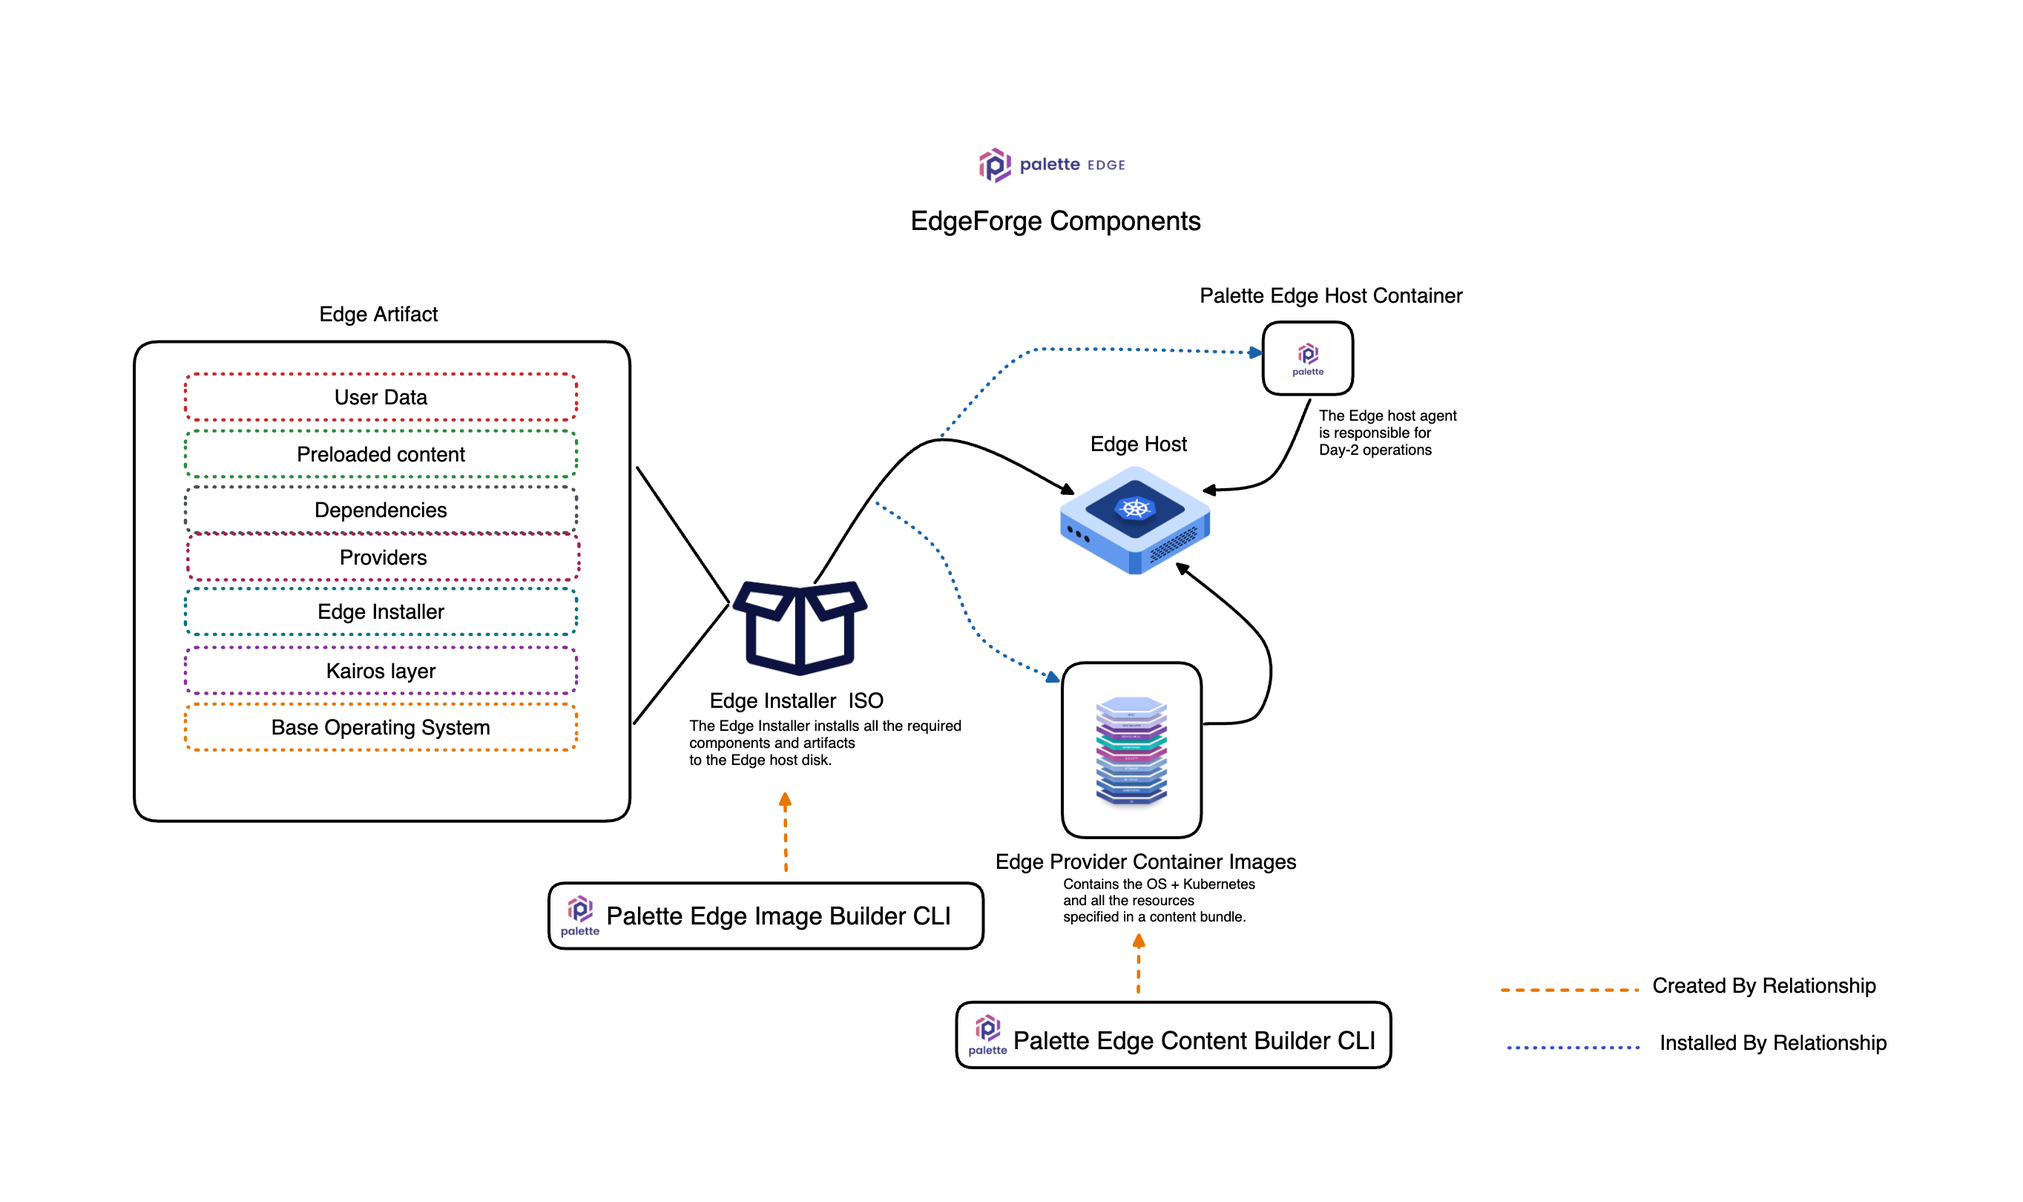
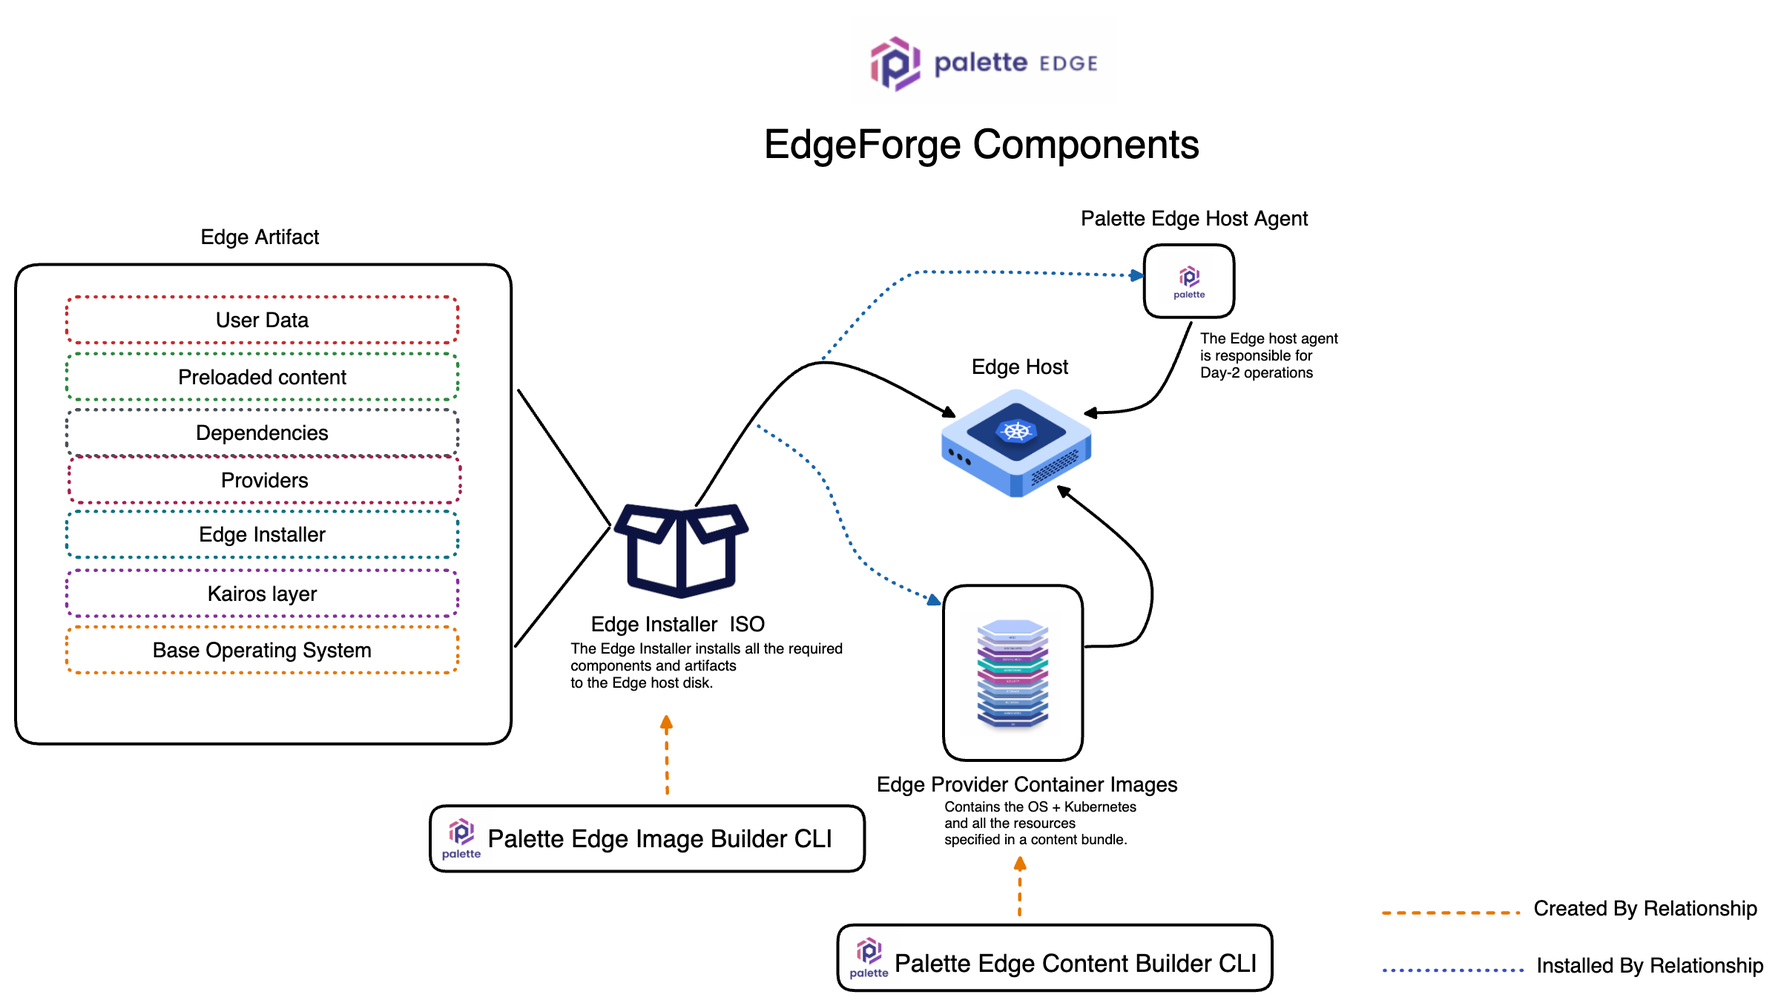
docs: updated Build Images page

diff --git a/content/docs/04-clusters/03-edge/04-edgeforge-workflow/04-build-images.md b/content/docs/04-clusters/03-edge/04-edgeforge-workflow/04-build-images.md
@@ -13,172 +13,190 @@ import PointsOfInterest from 'shared/components/common/PointOfInterest';
 
 # Overview
 
-Palette provides a tool called Palette Edge Installer CLI for building your edge artifacts.
+You can use the Edge Installer CLI to create an Edge artifact. The Edge artifacts will include everything you may have created up to this point.
 
+<br />
+
+* Bring Your Own Operating System (BYOOS)
+
+
+* Content Bundle
+
+
+
+* User Data
+
+
+![A diagram that illustrates the mentioned pieces making up an Edge artifact created by the Edge Installer CLI](/clusters_edge-forge-workflow_build-images_edge-artifact-result.png)
+
+Use the following steps to create an Edge artifact for your Edge host.
 # Prerequisites
 
-- Linux Machine (Physical or VM)
-- Access to a container registry with permissions to push container images
+- Linux Machine (Physical or VM) with an AMD64 architecture.
 
-# Steps
 
-1. Download Palette Edge Installer CLI
+- 12 Gib of storage or more. The size requirements may change depending on the size of the content bundle and image sizes of the selected OS and Kubernetes distribution.
 
-```shell
-VERSION=3.3.0
-wget https://software.spectrocloud.com/stylus/v$VERSION/cli/linux/palette-edge-installer
-chmod +x palette-edge-installer
-```
 
-2. Review options
+- Access to a container registry with permission to push container images. Review the registry login instructions for your respective registry for guidance on logging in.
 
-Run the 'show' command to view the list of options for OS flavors, OS version, K8s flavors, K8s Versions, Spectro Agent Version and Kairos version.
 
-```
-./spectro-cli-linux-amd64 show
-```
+# Create Image
 
-Sample Output:
+Choose the workflow that fits your needs.
 
-```
-┌────────────────────────────────────────────────────────────────────────┐
-| OS Flavor     | Description        | Base Image URI                    |
-| opensuse-leap | Opensuse Leap 15.4 | quay.io/kairos/core-opensuse-leap |
-| ubuntu-20     | Ubuntu 20.4 LTS    | quay.io/kairos/core-ubuntu-20-lts |
-| ubuntu-22     | Ubuntu 22.4 LTS    | quay.io/kairos/core-ubuntu-22-lts |
-└────────────────────────────────────────────────────────────────────────┘
-┌─────────────────────────────────────────────────────────────────────────────────────────────┐
-| K8S Flavor | Description        | Supported Versions                                        |
-| rke2       | Rancher RK2        | 1.25.3-rke2r1,1.24.7-rke2r1,1.23.13-rke2r1,1.22.15-rke2r1 |
-| k3s        | Rancher K3s        | 1.25.3-k3s1,1.24.6-k3s1,1.23.12-k3s1,1.22.15-k3s1         |
-| kubeadm    | Kubernetes kubeadm | 1.25.3,1.24.6,1.23.12,1.22.15                             |
-└─────────────────────────────────────────────────────────────────────────────────────────────┘
-┌────────────────────────────────────────┐
-| Component             | Version        |
-| Spectro Agent Version | v0.0.0-2b13491 |
-| Kairos Version        | v1.5.0         |
-└────────────────────────────────────────┘
-```
+<br />
 
-Notes:
 
-- The K8s flavor and K8s versions you choose, need to be from the list displayed. Palette will continuiously release newer versions of K8s as part of its releases.
-- If you choose to use your own OS, you will need to build a Kairos image from your OS as described in 'Build Your Own Kairos Image' section.
-- Typically, you will not change the Spectro Agent Version and Kairos Version.
+1. Download Palette Edge Installer CLI and assign the executable bit.
+   
+   <br />
 
-2. Generate Scaffold
+    ```shell
+    VERSION=3.3.0
+    wget https://software.spectrocloud.com/stylus/v$VERSION/cli/linux/palette-edge-installer
+    chmod +x palette-edge-installer
+    ```
 
-Generate a scaffold for bulding your images by providing your choice of OS and K8s flavor, output folder for build file, your container registry location and the location of your user data file.
+2. Issue the `show` command to review the list of options for Operating System (OS) distribution and versions, Kubernetes distributions and versions, the Spectro Agent Version, and Kairos version.
 
-The "generate" command generates files and directories based on os and k8s flavors or even custom base images.
+    <br />
 
-Basic Options:
+    ```shell
+    ./palette-edge-installer show
+    ```
 
---os-flavor: OS Flavor
---k8s-flavor: K8s Flavor
---output: Directory for generating build files
---push-image-repository: Repository for generated container images
---content-path: Optional location of content bundle if preloading content
---cache-provider-images: Additional flag to preload generated provider images into the installer ISO
+    ![CLI example output from the show command](/clusters_edge-forge-workflow_build-images_edge-cli-show.png)
 
-As an example, to create an opensuse + k3s images using upstream kairos opensuse-leap images and to publish to a target repo gcr.io/spectro-testing one could do
+    <br />
 
-```
-edge-cli generate --os-flavor opensuse-leap --k8s-flavor k3s --output opensuse-k3s --push-image-repository gcr.io/spectro-testing --content-path /root/work/playground/content-c59a5a88/spectro-content-c59a5a88.zst --cache-provider-images   
- 
- INFO  Creating directory  opensuse-k3s
- INFO  Created scaffolding directory structure under directory opensuse-k3s with the following parameters
-┌───────────────────────────────────────────────────────────────────────────┐
-| Spectro Agent Version | v0.0.0-d155796                                    |
-| Base Image            | quay.io/kairos/core-opensuse-leap:v1.5.0          |
-| K8S Flavor            | k3s                                               |
-| K8S Versions          | 1.25.2-k3s1,1.24.6-k3s1,1.23.12-k3s1,1.22.15-k3s1 |
-| Push Image Repository | gcr.io/spectro-testing                            |
-| Kairos Version        | v1.5.0                                            |
-└───────────────────────────────────────────────────────────────────────────┘
-To build an installer iso and target docker images for
-various versions supported, run the 'build.sh' in the
-'opensuse-k3s' directory. For any customizations to made to
-all the generated images e.g adding packages, edit the
-'images/Dockerfile' as needed before running
-'build.sh'.Files to be copied to the target images can be
-places under 'overlay/files' and files for the iso only can
-be placed under 'overlay/files-iso
-```
+    The Kubernetes distribution and versions you choose must be available in the list displayed. We will continuously release newer versions of Kubernetes as part of our release cycle. If you decide to use your custom OS, you must build a Kairos image from the OS you used in the [Bring Your Own OS](/clusters/edge/edgeforge-workflow/build-kairos-os) guide. Typically, you will keep the Spectro Agent and Kairos versions the same.
 
-To use a custom base image, such as rocky linux you would run the command as follows:
 
-```
-$> edge-cli generate --base-image-uri quay.io/kairos/core-rockylinux:v1.5.0  --k8s-flavor k3s --output rockylinux-k3s --push-image-repository gcr.io/spectro-testing 
+3. Use the `generate` command to create an image scaffolding by providing your choice of OS and Kubernetes distribution. There are several CLI flags you can specify to the `generate` command. The following flags are the most common.
 
- INFO  Creating directory  rockylinux-k3s
- INFO  Created scaffolding directory structure under directory rockylinux-k3s with the following parameters
-┌───────────────────────────────────────────────────────────────────────────┐
-| Spectro Agent Version | v0.0.0-d155796                                    |
-| Base Image            | quay.io/kairos/core-rockylinux:v1.5.0             |
-| K8S Flavor            | k3s                                               |
-| K8S Versions          | 1.25.2-k3s1,1.24.6-k3s1,1.23.12-k3s1,1.22.15-k3s1 |
-| Push Image Repository | gcr.io/spectro-testing                            |
-└───────────────────────────────────────────────────────────────────────────┘
-To build an installer iso and target docker images for
-various versions supported, run the 'build.sh' in the
-'rockylinux-k3s' directory. For any customizations to made
-to all the generated images e.g adding packages, edit the
-'images/Dockerfile' as needed before running
-'build.sh'.Files to be copied to the target images can be
-places under 'overlay/files' and files for the iso only can
-be placed under 'overlay/files-iso
-```
+    | Parameter                | Description                                                                                         |
+    |--------------------------|-----------------------------------------------------------------------------------------------------|
+    | `--os-flavor`             | OS flavor                                                                                           |
+    | `--k8s-flavor`            | Kubernetes flavor.                                                                                  |
+    | `--output`                 | Directory for generating build files.                                                              |
+    | `--push-image-repository`  | Repository for generated container images.                                                         |
+    | `--content-path`           | Optional location of the content bundle if preloading content.                                     |
+    | `--cache-provider-images`  | Additional flag to preload generated provider images into the installer ISO.                       |
 
-Running this command will generate a directory structure with specific build files in it at the location specified as '--output' in your command
+  <br />
 
-```
-|
-├── .versions.env
-├── build.sh
-├── images
-│   └── Dockerfile
-└── overlay
-    ├── files
-    │   └── Readme.txt
-    └── files-iso
-        ├── boot
-        │   └── grub2
-        │       └── grub.cfg
-        ├── config.yaml
-        └── opt
-            └── spectrocloud
-                └── content
-                    └── Readme.txt
-```
+  ```shell
+  ./palette-edge-installer generate --os-flavor [pick-os] \
+  --k8s-flavor [pick-k8s] \
+  --output [output directory] \
+  --push-image-repository [your registry path] \
+  --content-path [path to content bundle, if applicable] \
+  --cache-provider-images  
+  ```
 
-To see a complete list of options, please run the command
+  In this example, an `OpenSuse` + `k3s` image using the upstream Kairos `opensuse-leap` images is selected. The scaffolding image will also get published to a target repo `gcr.io/my-registry` and will include a content bundle. The `generate` command would look similar to the following.
 
-```
-edge-cli generate --help
-```
+  Example:
+  ```shell
+  ./palette-edge-installer generate --os-flavor opensuse-leap \
+  --k8s-flavor k3s \
+  --output opensuse-k3s \
+  --push-image-repository gcr.io/my-registry \
+  --content-path /temp/bundles/content-c59a5a88/spectro-content-c59a5a88.zst \
+  --cache-provider-images  
+  ```
+  Output:
+  ```shell
+  INFO  Creating directory  opensuse-k3s
+  INFO  Created scaffolding directory structure under directory opensuse-k3s with the following parameters
+  ┌───────────────────────────────────────────────────────────────────────────┐
+  | Spectro Agent Version | v0.0.0-d155796                                    |
+  | Base Image            | quay.io/kairos/core-opensuse-leap:v1.5.0          |
+  | K8S Flavor            | k3s                                               |
+  | K8S Versions          | 1.25.2-k3s1,1.24.6-k3s1,1.23.12-k3s1,1.22.15-k3s1 |
+  | Push Image Repository | gcr.io/spectro-testing                            |
+  | Kairos Version        | v1.5.0                                            |
+  └───────────────────────────────────────────────────────────────────────────┘
+  To build an installer iso and target docker images for
+  various versions supported, run the 'build.sh' in the
+  'opensuse-k3s' directory. For any customizations to made to
+  all the generated images e.g adding packages, edit the
+  'images/Dockerfile' as needed before running
+  'build.sh'.Files to be copied to the target images can be
+  places under 'overlay/files' and files for the iso only can
+  be placed under 'overlay/files-iso
+  ```
 
-3. Review and Modfy Build Configuration
+  For custom images use the `--base-image-uri` flag and specify the path to the custom image.
 
-Before you generate the build, you can make changes to customize your build for various options.
+  Example:
 
-- To modify or control the K8s versions, flavors etc. update the .versions.env file. Alternately you can pass these as arguments to the build command in the next step
-- To add any custom packages in the target os images using apt-get or zypper, edit the images/Dockerfile to add relevant commands.
-- To copy any custom files or directories into the k8s provider container  images , place under "overlay/files". The files directory is copied directly under "/" in the target image.
-- To add any custom content to the installer iso only, place them under the "overlay/files-iso" directory. To embedd a content bundle, place it under opt/spectrocloud/content under files-iso.
+  ```shell
+  ./palette-edge-installer generate \
+  --base-image-uri quay.io/kairos/core-rockylinux:v1.5.0 \
+  --k8s-flavor k3s \ 
+  --output rockylinux-k3s \
+  --push-image-repository gcr.io/my-registry
+  ```
 
-4. Build Images
 
-Run the following command to build your edge images.
+4. Review the content of the output directory you specified using `--output` flag. The output directory structure contains the following files.
 
-```
-./build.sh
-```
+  <br />
 
-The following images will be generated:
+  ![The output directory content in a tree diagram](/clusters_edge-forge-workflow_build-images_edge-cli-output.png)
 
-- Installer ISO Image
-- Container image with Spectro Host Agent
-- One or more K8s Provider Container images
 
-Ensure you push the container images to your image repository, either by specifying PUSH_BUILD=true in the '.versions.env'file or pushing them manually after generation.
+5. Navigate to the output directory and review the file **.VERSIONS.env**. Set the variable `PUSH_BUILD` to `tru`e so that the Edge Provider images and the Edge Installer image get pushed to your image registry. The alternative is to manually push all the images after the image creation process completes.
+
+
+
+6. Before you start the build script, you can make changes to customize your build. Review the use cases below to learn more about customization options.
+
+- To modify or control the Kubernetes versions and flavors. You can update the `.versions.env` file. Alternatively, in the next step, you can specify the versions and flavors as arguments to the build command.
+
+
+- You can add custom packages to target OS images using `apt-get` or `zypper`. Edit the respective images' **Dockerfile** to add the install commands.
+
+
+- Add custom files or directories into the Kubernetes provider container images. Add the custom files or directories in the  **overlay/files/** folder. The files directory is copied directly under `/` in the target image.
+
+
+- If you need to add custom content and limit the scope to only the Edge Install installer ISO. Place the custom content in the **overlay/files-iso** directory. To embed a content bundle, place it under the **overlay/files-iso/opt/spectrocloud/content** folder.
+
+7. Navigate to your output directory and issue the following command to build your Edge images. This command will take a few minutes to complete.
+
+  <br />
+
+  ```shell
+  ./build.sh
+  ```
+
+  The following images are generated by the build script.
+
+  - Edge Installer ISO image.
+
+  - Edge Host container image containing the Palette Edge Host Agent.
+
+  - Kubernetes Provider container images.
+
+8. Locate the ISO file in the output directory. Using a bootable USB drive, PXE server, or other means, mount the ISO to the primary drive of the bare metal appliance. The installer flashes to the edge host's hard disk, and the host will shut down. The bare metal edge host appliance is ready to be shipped to the edge location.
+
+
+<InfoBox>
+
+You can use several software tools to create a bootable USB drive, such as [balenaEtcher](https://www.balena.io/etcher). For a PXE server, there are open-source projects such as [Fog](https://fogproject.org/download) or [Windows Deployment Services](https://learn.microsoft.com/en-us/windows/deployment/wds-boot-support) for Windows.
+
+</InfoBox>
+
+
+# Validation
+
+You can validate that the ISO image is not corrupted and is valid by attempting to flash a bootable device. Most software that creates a bootable device will validate the ISO image before the flash process.
+
+
+# Next Steps
+
+You now have an Edge artifact that you can use to create an Edge host. You can start the site deployment process. Check out the [Site Deployment](/clusters/edge/site-deployment) resource to learn more about the Site Deployment process.
+

diff --git a/content/docs/04-clusters/03-edge/04-edgeforge-workflow.md b/content/docs/04-clusters/03-edge/04-edgeforge-workflow.md
@@ -22,7 +22,7 @@ EdgeForce contains three critical components.
 * Edge Installer ISO.
 
 
-* Edge Host Container Image.
+* Edge Host Agent Container Image.
 
 
 * Edge Provider Container Images.
@@ -41,9 +41,9 @@ An ISO file that bootstraps the installation process. The ISO image contains the
 
 <br />
 
-## Edge Host Container Image
+## Edge Host Agent Container Image
 
-The Edge Host Container Image contains the Palette Edge host agent. The Edge host agent is responsible for Day-2 operations and management of the Edge host. The Edge host agent will also provide ongoing support during cluster runtime.
+The Edge host agent container image contains the Palette Edge host agent. The agent is responsible for Day-2 operations and management of the Edge host. The Edge host agent will also provide ongoing support during cluster runtime.
 
 <br />
 

diff --git a/content/docs/04-clusters/03-edge/04-edgeforge-workflow/02-build-content-bundle.md b/content/docs/04-clusters/03-edge/04-edgeforge-workflow/02-build-content-bundle.md
@@ -36,7 +36,7 @@ Currently, the content bundles include Helm charts and Packs. However, keep in m
 - An Edge Native cluster profile. Refer to [Create Edge Native Cluster Profile](/clusters/edge/site-deployment/model-profile) guide to learn how to create an Edge Native cluster profile. You may also have other add-on profiles that you wish to attach to your cluster.
 
 
-- Content tags in your profiles highlighting the exact location of container images to be downloaded
+- Content tags in your profiles highlight the exact location of container images to be downloaded.
 
 # Create Content Bundle
 

diff --git a/content/docs/04-clusters/03-edge/04-edgeforge-workflow/01-build-kairos-os.md b/content/docs/04-clusters/03-edge/04-edgeforge-workflow/01-build-kairos-os.md
@@ -29,7 +29,7 @@ As an example, the following steps will guide you through the procedure to build
 - Linux Machine (Physical or VM) with an AMD64 architecture.
 
 
-- Access to a container registry with permission to push container images.
+- Access to a container registry with permission to push container images. Review the registry login instructions for your respective registry for guidance on logging in.
 
 
 <WarningBox>
